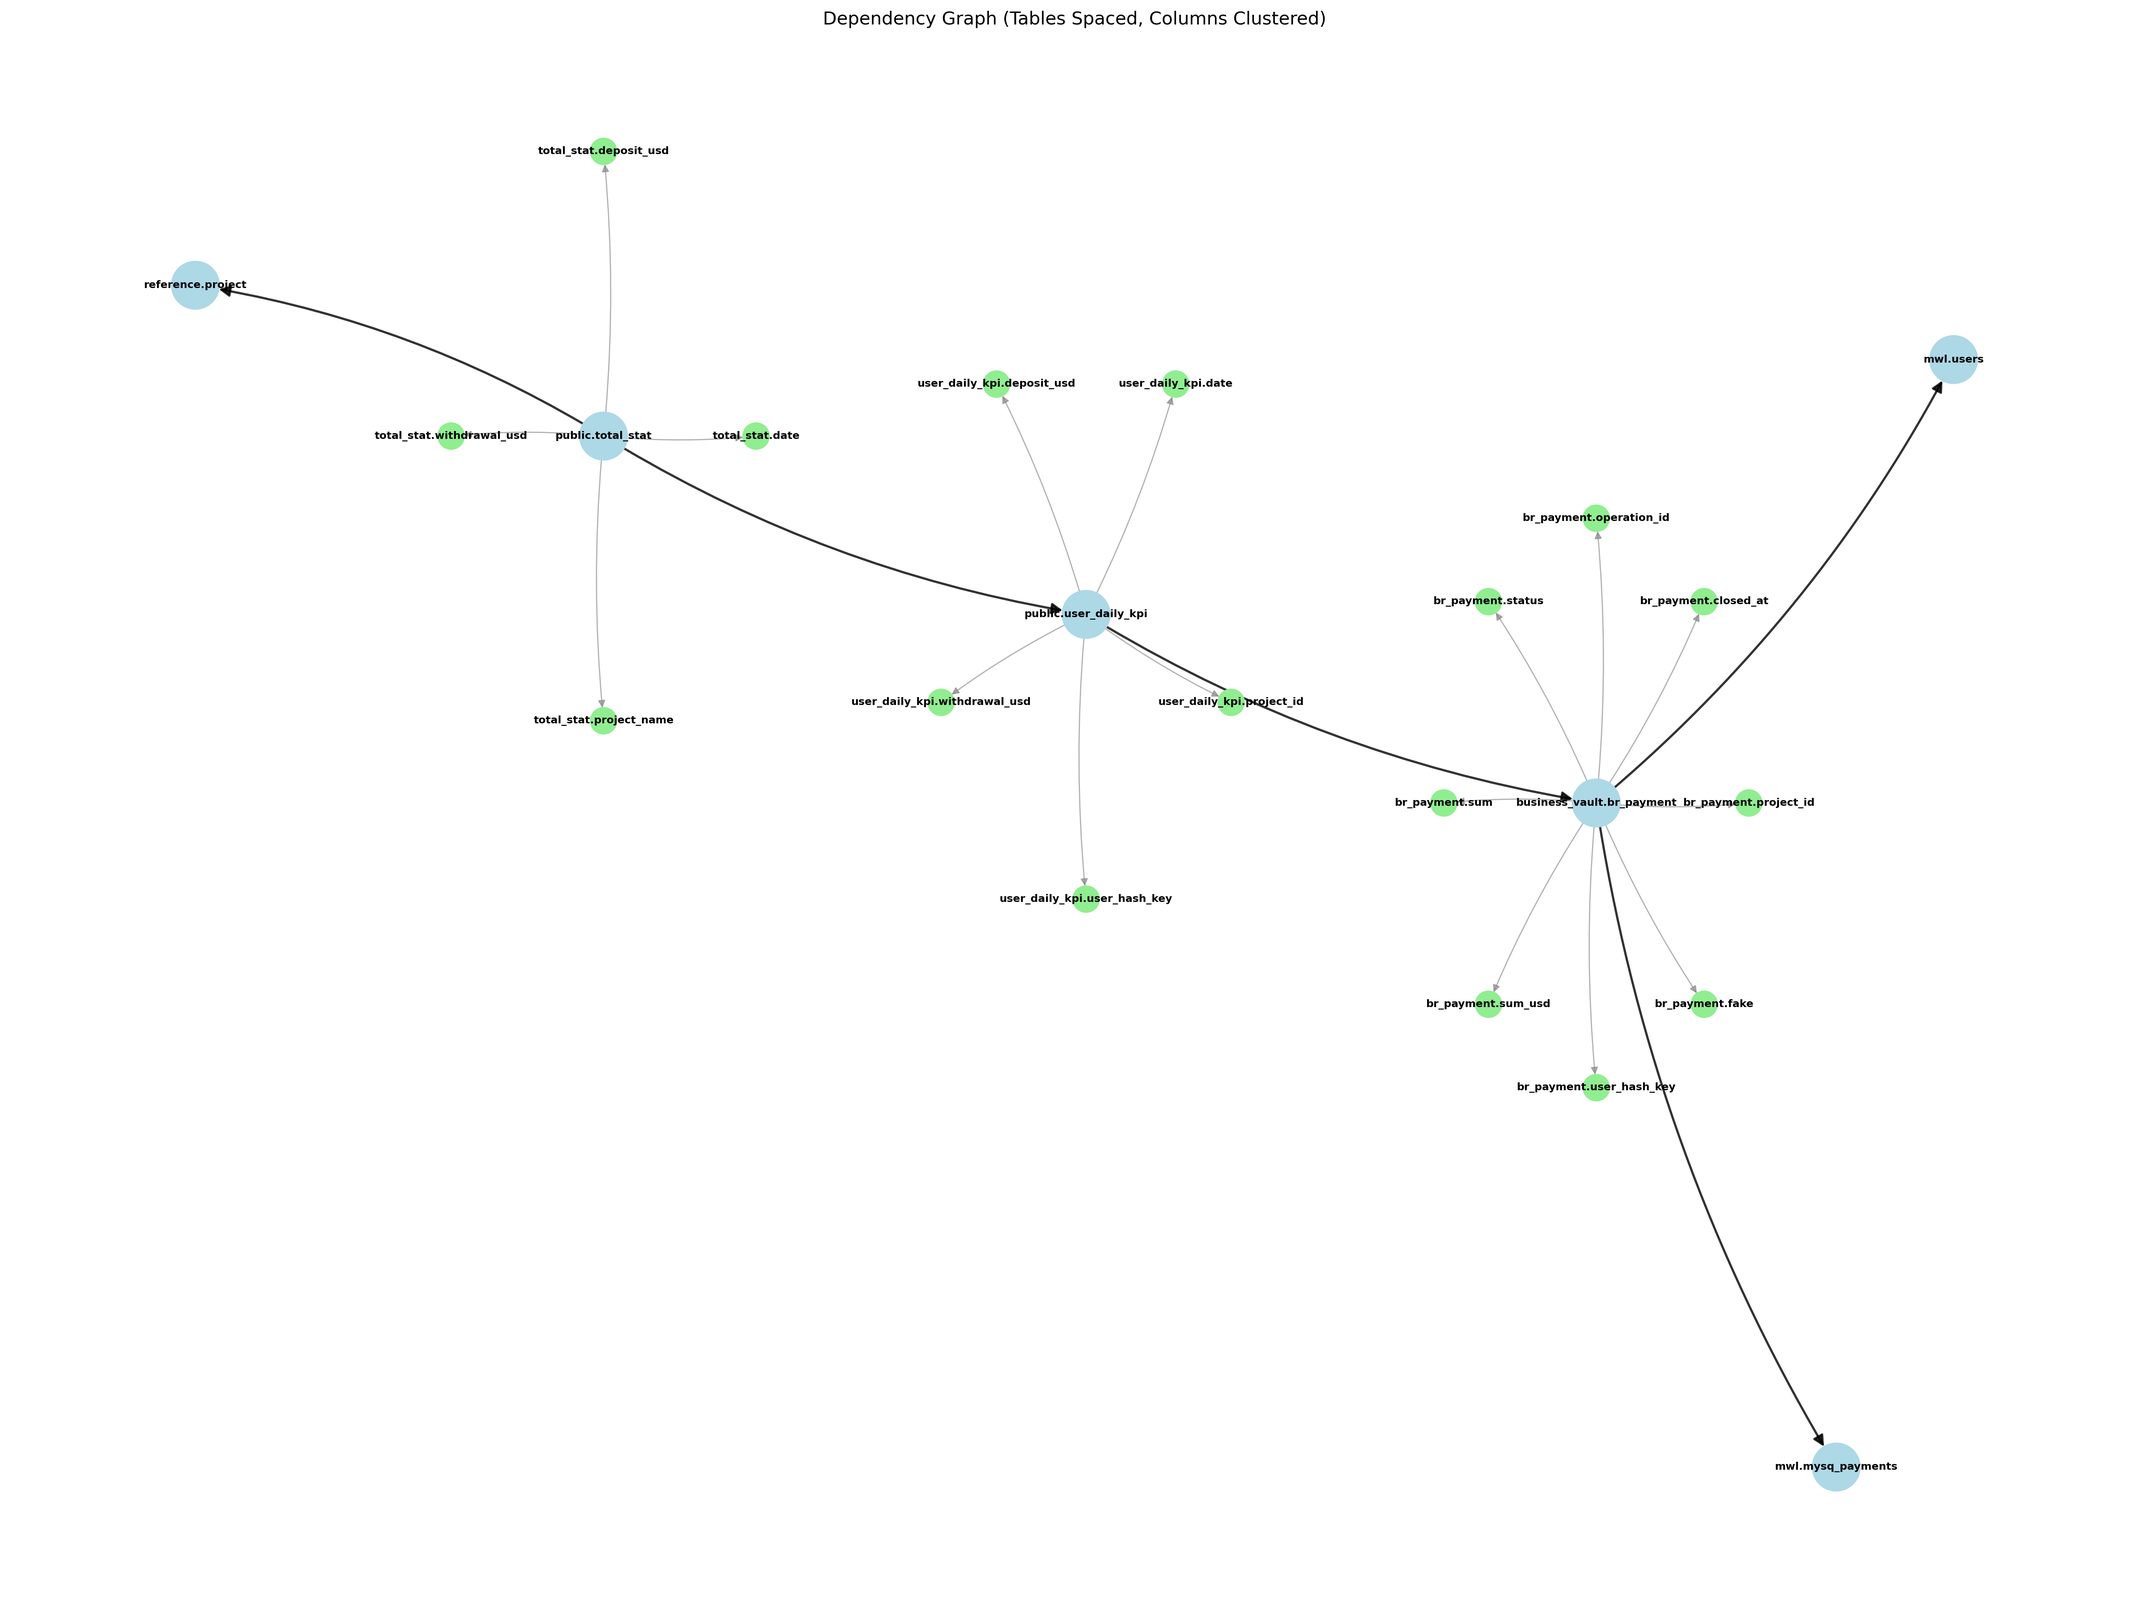
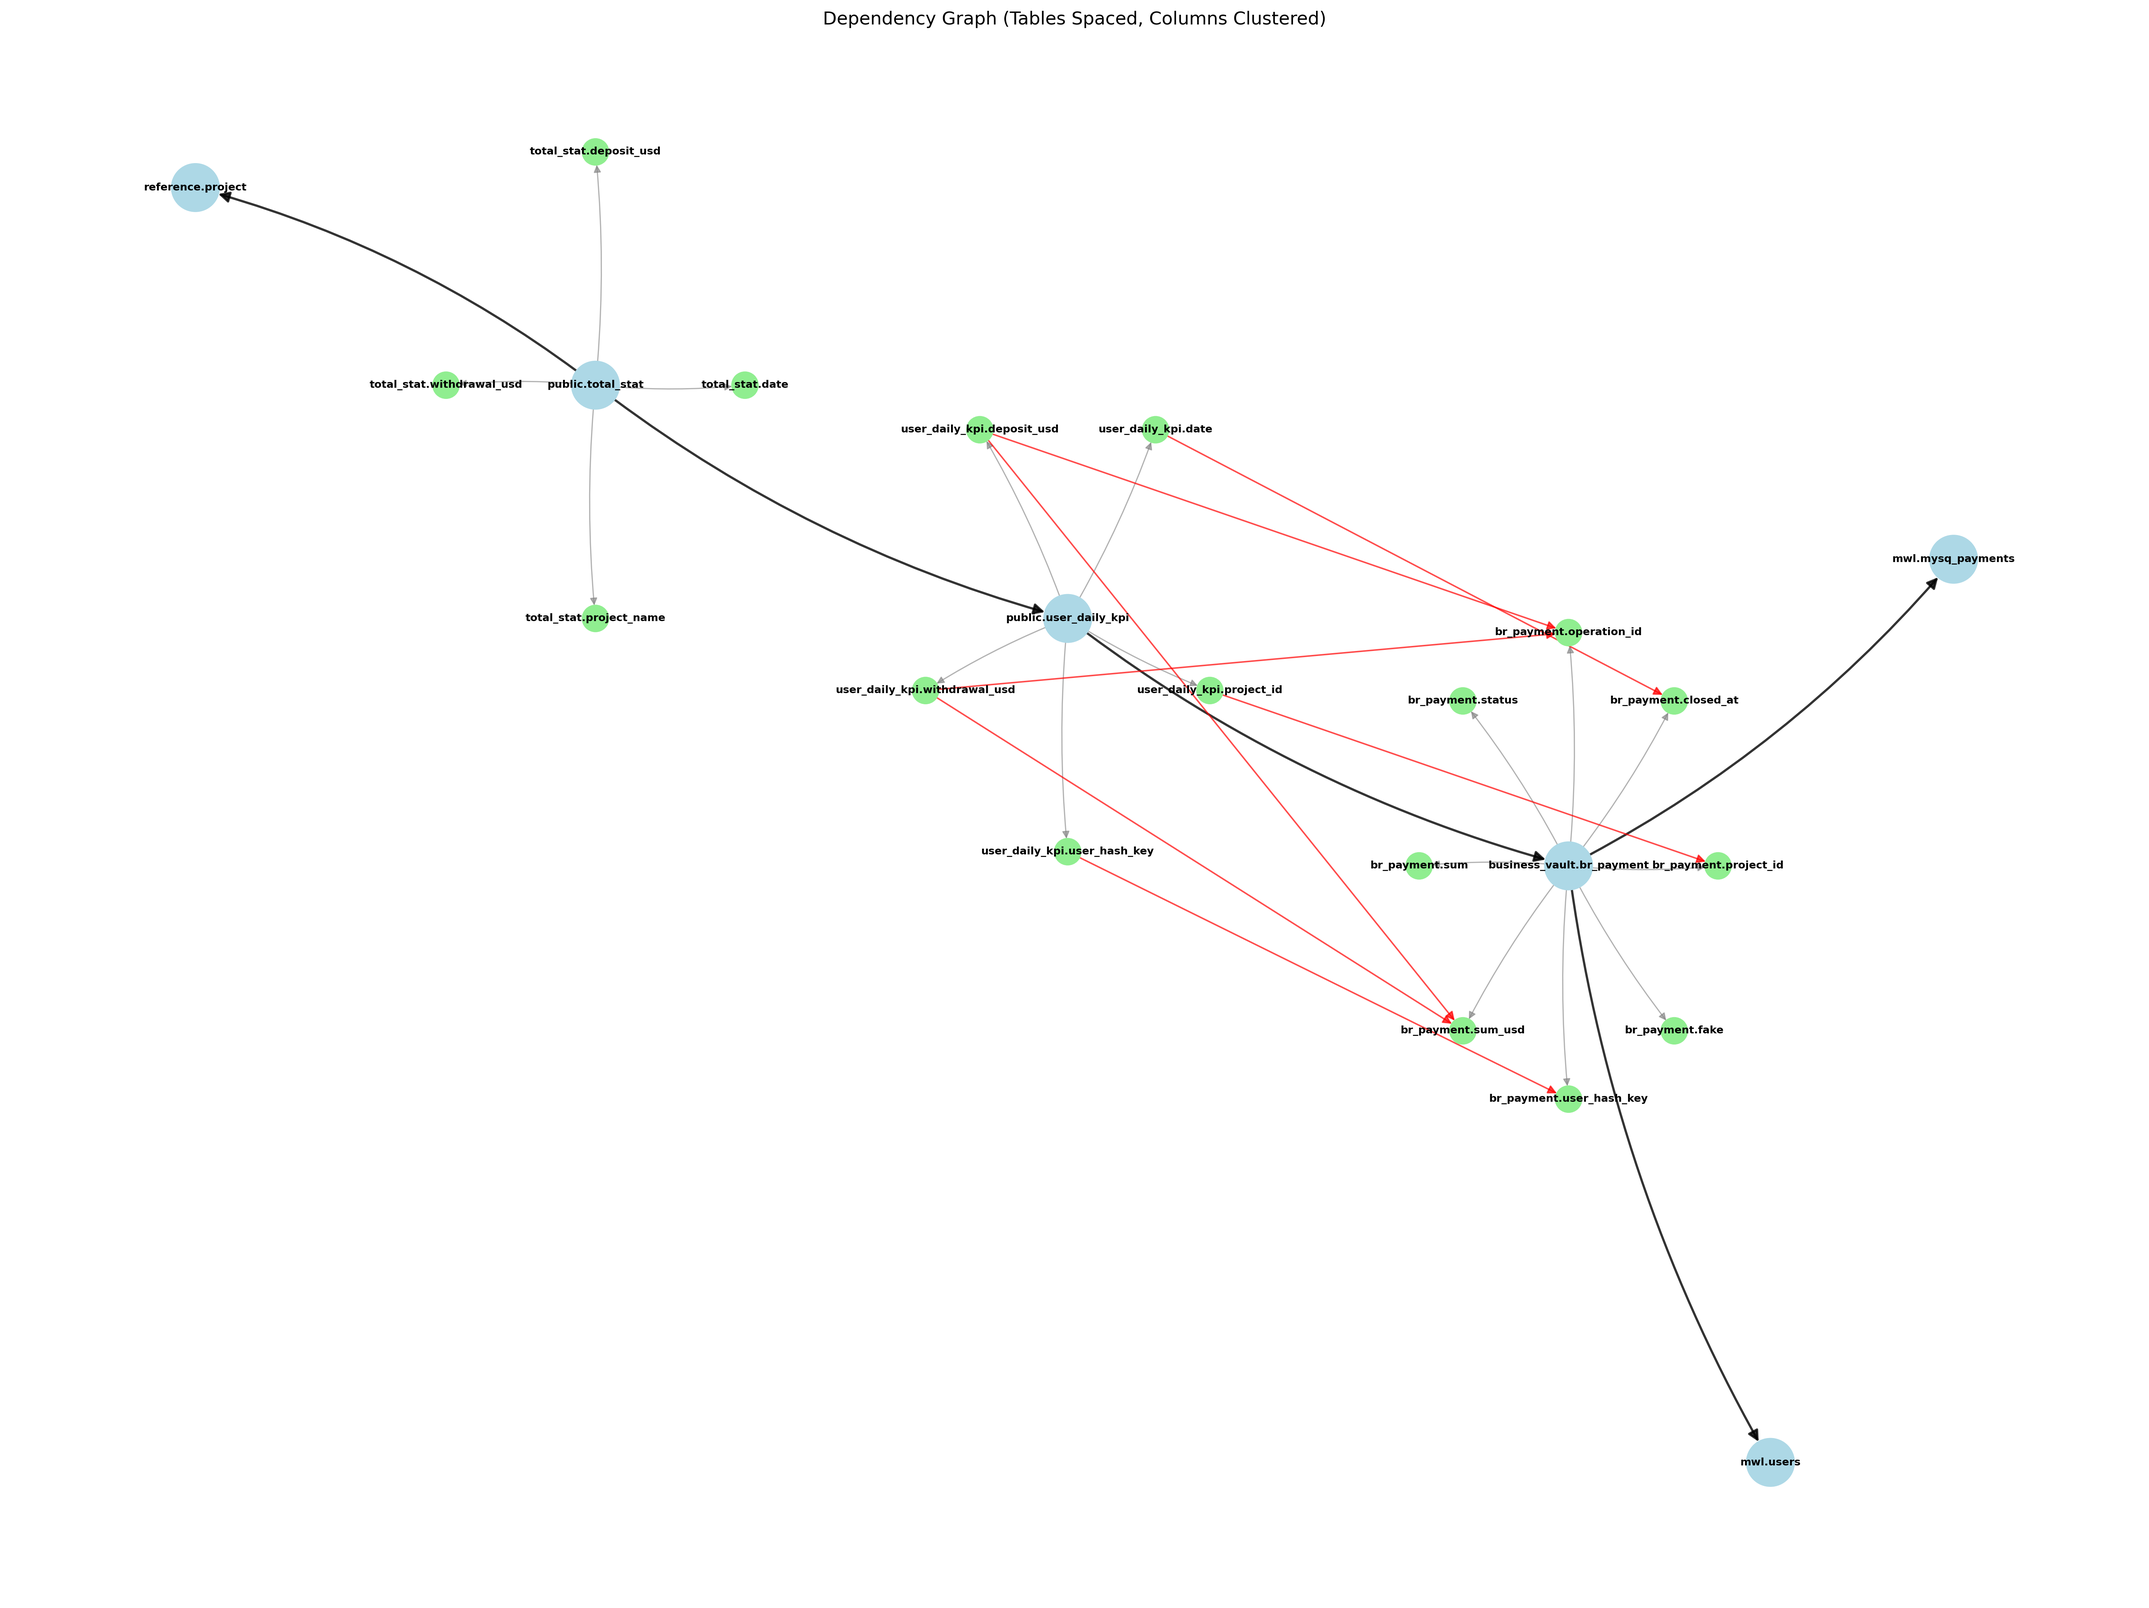
Reworking build_column_dependency_graph. It works now, but not perfectly. Can't add dependencies for the source columns (which haven't SQL definitions)

diff --git a/run.py b/run.py
@@ -18,18 +18,8 @@ from networkx.readwrite import json_graph
 from rich.logging import RichHandler
 from rich.text import Text
 import warnings
+import config
 warnings.simplefilter(action='ignore', category=FutureWarning) # Suppress pandas future warning from networkx/json
-
-# --- config ---
-try:
-    import config
-except ImportError:
-    print("Ошибка: Файл конфигурации 'config.py' не найден.")
-    print("Создайте файл 'config.py' с необходимыми настройками.")
-    exit(1)
-except Exception as e: # Catch broader errors during config import/access
-    print(f"Ошибка при импорте или доступе к config.py: {e}")
-    exit(1)
 
 # --- Checking for the presence of required attributes in config ---
 required_configs = ['SQL_MODELS_DIR', 'STATE_FILE', 'SQL_DIALECT', 'SQL_FILE_EXTENSION']
@@ -254,10 +244,26 @@ def find_source_columns_from_lineage(node: LineageNode, target_col_name: str, di
     Recursively traverses the lineage Node tree and collects all
     sqlglot.exp.Column expressions that represent terminal sources
     (i.e., leaf Column nodes in the lineage tree with table information).
+    source_col_id = format_node_id(
+        COL_PREFIX,
+        'business_vault',
+        'br_payment',
+        'sum_usd',
+    )
+    target_col_id = format_node_id(
+        COL_PREFIX,
+        'public',
+        'user_daily_kpi',
+        'deposit_usd',
+    )
+    graph.add_edge(
+        target_col_id, source_col_id, type="column_dependency"
+    )
     """
     sources: List[sqlglot.exp.Column] = []
-    processed_node_ids = set() # Для предотвращения циклов
+    processed_node_ids = set()
 
+    _cols = []
     def traverse(current_node: LineageNode):
         node_id = id(current_node)
         if node_id in processed_node_ids:
@@ -273,16 +279,14 @@ def find_source_columns_from_lineage(node: LineageNode, target_col_name: str, di
 
         if is_leaf_node:
             # If the leaf node is itself a column (and not the target)
-            if isinstance(current_node.expression, sqlglot.exp.Column) and not is_target_node:
-                # Add ONLY if source information (table/alias) is available
-                source_expr = current_node.expression
-                if source_expr.table:
-                    sources.append(source_expr)
-                else:
-                    # Log columns without a table that are being skipped
-                    logger.debug(f"Skipping a leaf node that is a source column '{source_expr.sql(dialect=dialect)}' without table name/alias in the lineage for '{target_col_name}'.")
-            else: # Leaf node is not a column (e.g., a literal or a function without columns)
-                logger.debug(f"Lead node lineage for '{target_col_name}' is not Column: {type(current_node.expression)} [{current_node.name}]")
+            source_col_id = format_node_id(
+                node_type=COL_PREFIX,
+                schema=str(current_node.source).split('.')[0],
+                name=current_node.name.split('.')[0],
+                column=current_node.name.split('.')[1]
+            )
+            logger.debug(f"Found {source_col_id} column as source for the {target_col_name}")
+            _cols.append(source_col_id)
 
         # Recursively traverse child nodes (downstream dependencies)
         # Sources can only appear at the leaf nodes of the lineage tree
@@ -293,16 +297,11 @@ def find_source_columns_from_lineage(node: LineageNode, target_col_name: str, di
     if node:
         traverse(node)
 
-    # Remove duplicate Column objects (just in case)
-    unique_sources_dict = {id(expr): expr for expr in sources}
-    unique_sources = list(unique_sources_dict.values())
-
     # Log the discovered sources
-    source_sqls = [s.sql(dialect=dialect) for s in unique_sources]
-    if source_sqls:
-        logger.debug(f"Found source columns for target '{target_col_name}': {source_sqls}")
+    if _cols:
+        logger.debug(f"Found source columns for target '{target_col_name}': {_cols}")
 
-    return unique_sources
+    return _cols
 
 def resolve_table_alias(source_table_alias: Optional[str],
                          source_schema_alias: Optional[str],
@@ -374,10 +373,11 @@ def resolve_table_alias(source_table_alias: Optional[str],
     logger.warning(f"Failed to resolve alias/table '{source_table_alias}' (schema hint: {source_schema_alias})")
     return None, None
 
-def build_column_dependency_grapth(graph: nx.classes.digraph.DiGraph, model_id: str, col_name: str, main_statement: sqlglot.exp.Insert):
+def build_column_dependency_graph(graph: nx.classes.digraph.DiGraph, model_id: str, col_name: str, target_col_id: str, main_statement: sqlglot.exp.Insert):
     """
     Calculates the dependencies of columns on each other
     """
+
     # --- Lineage Analysis ---
     lineage_target_column = col_name  # Use the column name as the lineage target
     lineage_sql_statement = main_statement  # Full INSERT or CREATE AS SELECT statement
@@ -408,7 +408,7 @@ def build_column_dependency_grapth(graph: nx.classes.digraph.DiGraph, model_id: 
 
     if lineage_result_node:
         # Searching for source columns in the lineage tree
-        source_column_expressions: List[
+        source_col_ids: List[
             sqlglot.exp.Column
         ] = find_source_columns_from_lineage(
             lineage_result_node,
@@ -416,108 +416,25 @@ def build_column_dependency_grapth(graph: nx.classes.digraph.DiGraph, model_id: 
             getattr(config, "SQL_DIALECT", None),
         )
 
-        processed_source_col_ids = set()
         # Processing the found source columns
-        for source_expr in source_column_expressions:
-            source_col_name = source_expr.name
-            source_table_alias = (
-                source_expr.table
-            )  # Table or alias name from the column expression
-            source_schema_alias = source_expr.db  # Schema name from the column expression
-
-            # Resolve table alias/name to the actual table/schema
-            # Pass the source_tables_in_query iterator (tables from FROM/JOIN excluding CTEs)
-            actual_source_schema, actual_source_table_name = resolve_table_alias(
-                source_table_alias,
-                source_schema_alias,
-                iter(source_tables_in_query),
-                target_schema,  # Target table schema as default
-            )
-
-            if actual_source_table_name and actual_source_schema:
-                try:
-                    source_col_id = format_node_id(
-                        COL_PREFIX,
-                        actual_source_schema,
-                        actual_source_table_name,
-                        source_col_name,
+        for source_col_id in source_col_ids:
+            try:
+                # Добавляем ребро зависимости колонок: target_col -> source_col
+                if graph.has_node(source_col_id):
+                    graph.add_edge(
+                        target_col_id, source_col_id, type="column_dependency"
+                    )
+                    logger.debug(
+                        f"Added column dependency: {target_col_id} -> {source_col_id}"
+                    )
+                else:
+                    logger.warning(
+                        f"Failed to add edge {target_col_id} -> {source_col_id}: source node not found."
                     )
 
-                    if source_col_id in processed_source_col_ids:
-                        continue
-                    processed_source_col_ids.add(source_col_id)
-
-                    source_col_name_norm = normalize_name(source_col_name)
-                    parsed_source_table_id_info = parse_node_id(
-                        format_node_id(
-                            TBL_PREFIX, actual_source_schema, actual_source_table_name
-                        )
-                    )
-
-                    # Add source column node
-                    if not graph.has_node(source_col_id):
-                        src_col_attrs = {
-                            "type": COL_PREFIX,
-                            "schema": parsed_source_table_id_info["schema"],
-                            "table": parsed_source_table_id_info["table"],
-                            "column": source_col_name_norm,
-                        }
-                        graph.add_node(source_col_id, **src_col_attrs)
-                        logger.debug(
-                            f"Source column node added: {source_col_id}"
-                        )
-
-                        # Edge from source table to its column
-                        upstream_model_id = format_node_id(
-                            TBL_PREFIX,
-                            parsed_source_table_id_info["schema"],
-                            parsed_source_table_id_info["table"],
-                        )
-                        if not graph.has_node(upstream_model_id):
-                            # Add table node if it was missed
-                            is_known = upstream_model_id in known_models
-                            source_type = "model" if is_known else "source_table"
-                            up_attrs = {
-                                "type": TBL_PREFIX,
-                                "schema": parsed_source_table_id_info["schema"],
-                                "name": parsed_source_table_id_info["table"],
-                                "source_type": source_type,
-                            }
-                            graph.add_node(upstream_model_id, **up_attrs)
-                            logger.debug(
-                                f"Missing source node added: {upstream_model_id} (Type: {source_type})"
-                            )
-
-                        if graph.has_node(upstream_model_id) and not graph.has_edge(
-                            upstream_model_id, source_col_id
-                        ):
-                            graph.add_edge(
-                                upstream_model_id, source_col_id, type="contains_column"
-                            )
-                            logger.debug(
-                                f"Added 'contains_column' edge: {upstream_model_id} -> {source_col_id}"
-                            )
-
-                    # Добавляем ребро зависимости колонок: target_col -> source_col
-                    if graph.has_node(source_col_id):
-                        graph.add_edge(
-                            target_col_id, source_col_id, type="column_dependency"
-                        )
-                        logger.debug(
-                            f"Added column dependency: {target_col_id} -> {source_col_id}"
-                        )
-                    else:
-                        logger.warning(
-                            f"Failed to add edge {target_col_id} -> {source_col_id}: source node not found."
-                        )
-
-                except (ValueError, KeyError) as e:
-                    logger.error(
-                        f"Error while processing/adding node/edge for source column {actual_source_schema}.{actual_source_table_name}.{source_col_name}: {e}"
-                    )
-            else:
-                logger.warning(
-                    f"Failed to resolve source for column '{source_expr.sql()}' (from lineage of '{col_name}') in {model_id}. Original alias/table: '{source_table_alias}', schema: '{source_schema_alias}'."
+            except (ValueError, KeyError) as e:
+                logger.error(
+                    f"Error while processing/adding node/edge for source column {actual_source_schema}.{actual_source_table_name}.{source_col_name}: {e}"
                 )
         # End of loop over source_column_expressions
     else:
@@ -729,7 +646,6 @@ def build_dependency_graph(sql_files: List[Path], root_dir: Path) -> Tuple[nx.Di
                     f"The number of target columns ({len(target_columns)}) differs from the number of expressions in the SELECT clause ({len(select_expressions)}) for {model_id}. This may result in inaccurate lineage."
                 )
 
-
             parsed_target_id_info = parse_node_id(model_id)
 
             # Processing each target column
@@ -755,7 +671,7 @@ def build_dependency_graph(sql_files: List[Path], root_dir: Path) -> Tuple[nx.Di
                     logger.debug(f"Added node/edge for column: {target_col_id}")
 
                     # Add edges between columns
-                    build_column_dependency_grapth(graph, model_id, col_name, main_statement)
+                    build_column_dependency_graph(graph, model_id, col_name, target_col_id, main_statement)
 
                 except (ValueError, KeyError) as e:
                     logger.error(f"Error processing target column '{col_name}' or its dependencies in {model_id}: {e}")

diff --git a/draw_graph.py b/draw_graph.py
@@ -28,9 +28,6 @@ COLUMN_ARROW_SIZE = 10
 # Загрузим твой JSON (можно из файла или строки)
 with open("dependency_state.json") as f:
     data = json.load(f)
-# Or load from file:
-# with open("dependency_state.json") as f:
-#     data = json.load(f)
 
 # Create the full graph
 G = json_graph.node_link_graph(data, directed=True, multigraph=False)
